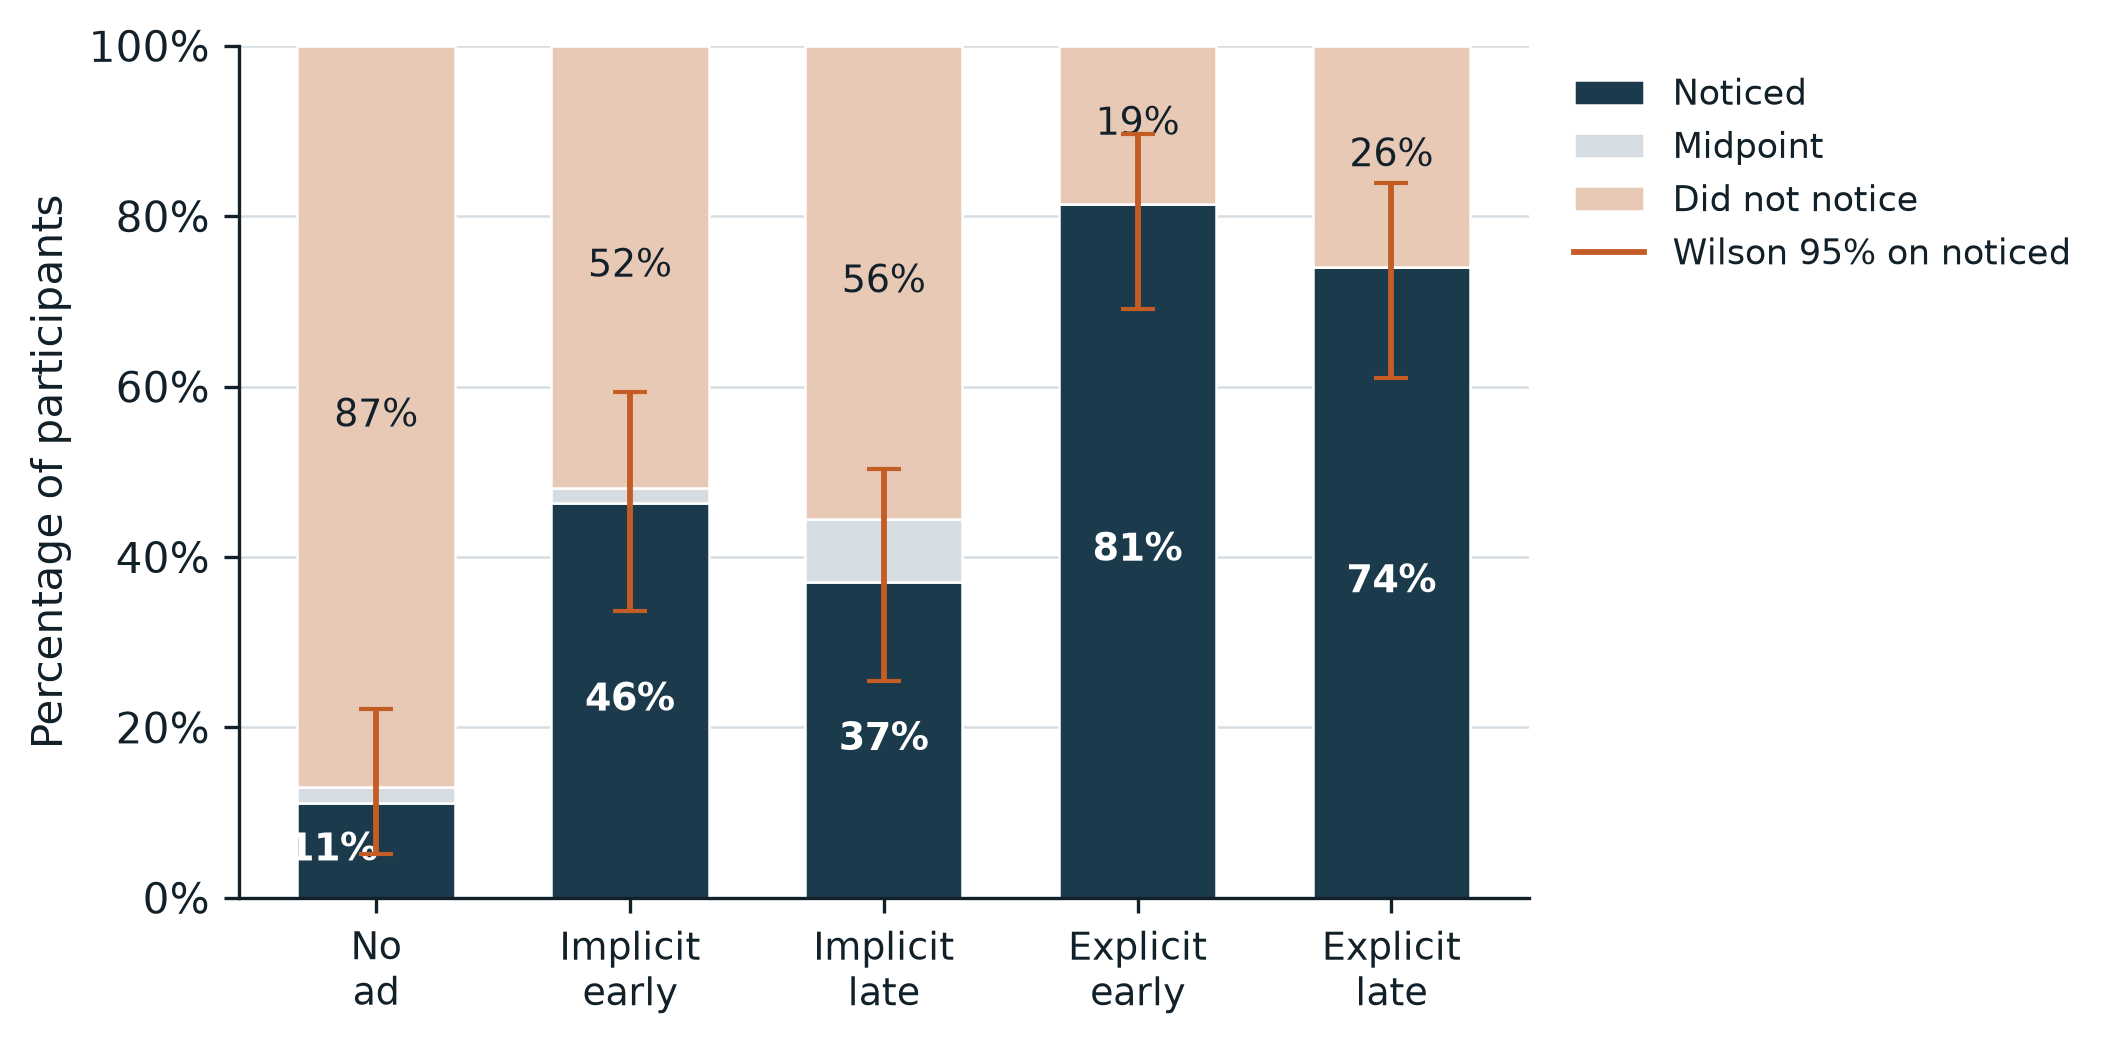
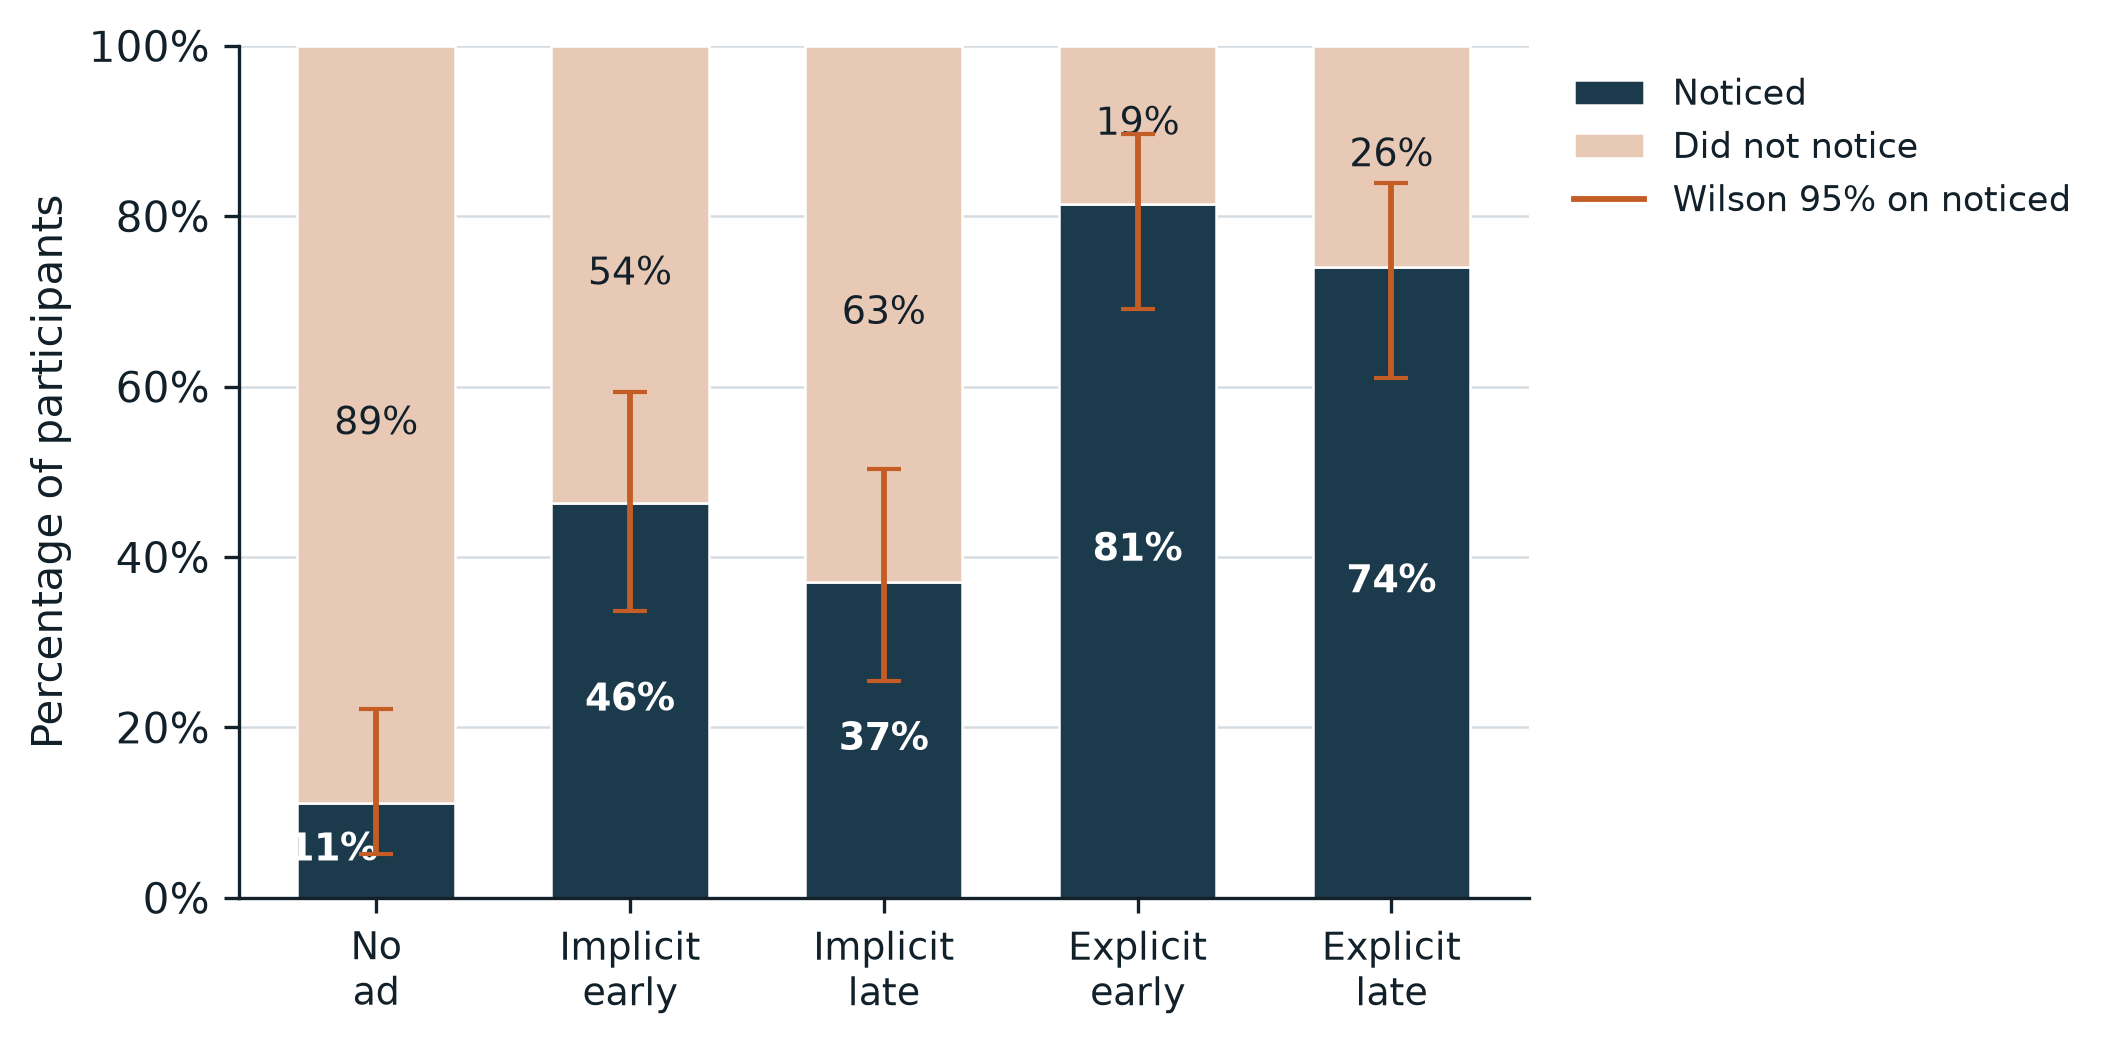
Plot notice as noticed versus not, without a midpoint stack.

diff --git a/analysis/walter/behavioural/stats/run_notice_percentages.py b/analysis/walter/behavioural/stats/run_notice_percentages.py
@@ -201,7 +201,7 @@ def main() -> None:
 
 
 # --------------------------------------------------------------------------- #
-# figure: stacked shares of the sponsored-button item per condition
+# figure: noticed (>=5) vs not (otherwise), detection item, one bar per condition
 # --------------------------------------------------------------------------- #
 def make_figure(sp: pd.DataFrame) -> None:
     plt.rcParams.update({
@@ -213,27 +213,23 @@ def make_figure(sp: pd.DataFrame) -> None:
     n = len(sp)
     conds = list(sk.CONDITIONS)
     noticed = (sp >= 5).sum()
-    mid = (sp == 4).sum()
-    notn = (sp <= 3).sum()
+    notn = (sp <= 4).sum()
     x = np.arange(len(conds))
     fig, ax = plt.subplots(figsize=(7.2, 3.6))
-    p_not = notn[conds].to_numpy() / n
-    p_mid = mid[conds].to_numpy() / n
     p_yes = noticed[conds].to_numpy() / n
+    p_not = notn[conds].to_numpy() / n
     ax.bar(x, p_yes, color=NAVY, edgecolor="white", lw=0.6, width=0.62, label="Noticed")
-    ax.bar(x, p_mid, bottom=p_yes, color=MIST, edgecolor="white", lw=0.6, width=0.62, label="Midpoint")
-    ax.bar(x, p_not, bottom=p_yes + p_mid, color=LIGHT_CLAY, edgecolor="white", lw=0.6, width=0.62,
+    ax.bar(x, p_not, bottom=p_yes, color=LIGHT_CLAY, edgecolor="white", lw=0.6, width=0.62,
            label="Did not notice")
     for i, c in enumerate(conds):
         share, lo, hi = wilson(int(noticed[c]), n)
         ax.errorbar(x[i], share, yerr=[[share - lo], [hi - share]], fmt="none", ecolor=CLAY, elinewidth=1.4,
                     capsize=4, zorder=4)
-        # short bars: move the label off the whisker
         dx = -0.17 if share < 0.15 else 0.0
         ax.text(x[i] + dx, share / 2, f"{share:.0%}", ha="center", va="center", color="white", fontsize=9,
                 fontweight="bold")
         if p_not[i] > 0.08:
-            ax.text(x[i], p_yes[i] + p_mid[i] + p_not[i] / 2, f"{p_not[i]:.0%}", ha="center", va="center",
+            ax.text(x[i], p_yes[i] + p_not[i] / 2, f"{p_not[i]:.0%}", ha="center", va="center",
                     color=INK, fontsize=9)
     ax.set_xticks(x)
     ax.set_xticklabels([COND_NAME[c].replace(" ", "\n") for c in conds], fontsize=9)
